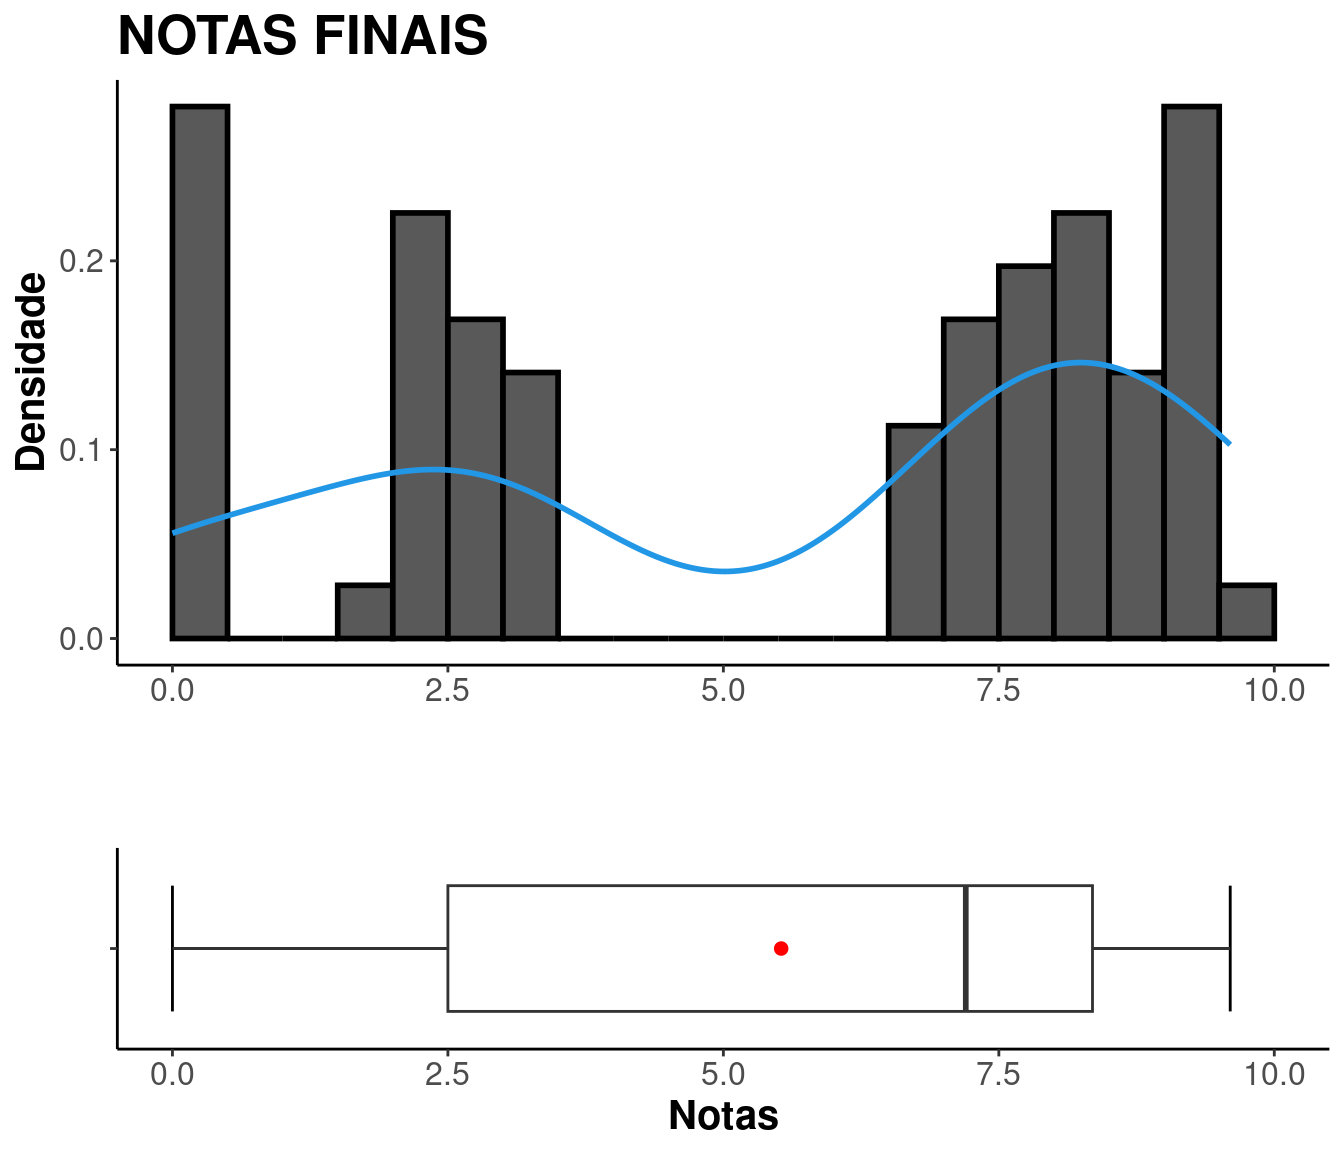
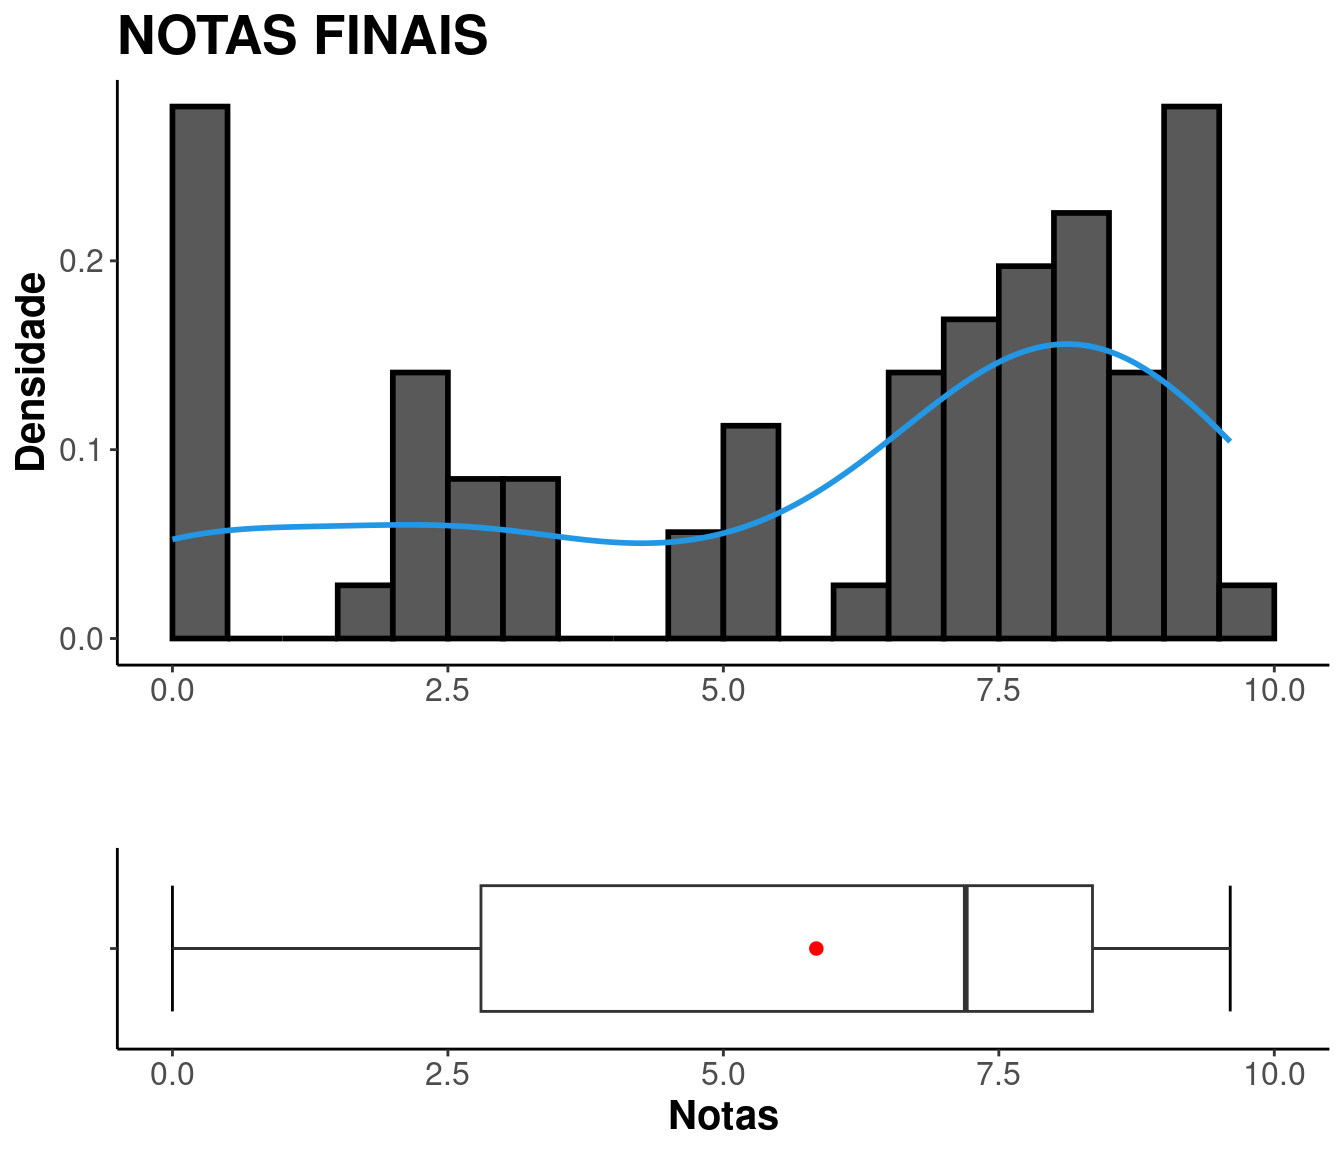
atualiza notas pos exame

diff --git a/notas.html b/notas.html
@@ -422,8 +422,8 @@ Prof. Dra. Silvia Emiko Shimakura</div></h3>
 <p>Busque sua situação digitando seu GRR na caixa “Search”.</p>
 <p><br />
 </p>
-<div class="datatables html-widget html-fill-item-overflow-hidden html-fill-item" id="htmlwidget-715f70905cf11ecd9454" style="width:100%;height:auto;"></div>
-<script type="application/json" data-for="htmlwidget-715f70905cf11ecd9454">{"x":{"filter":"none","vertical":false,"editable":{"target":"cell","disable":{"columns":null},"numeric":[1,2,3,4,5,6,7,8,9,10,11,12],"date":[]},"data":[["GRR20233873","GRR20240210","GRR20242448","GRR20241331","GRR20244190","GRR20241678","GRR20243150","GRR20240436","GRR20243413","GRR20242873","GRR20242352","GRR20244982","GRR20222245","GRR20244660","GRR20240331","GRR20243352","GRR20242856","GRR20244777","GRR20233892","GRR20233896","GRR20243557","GRR20241963","GRR20241650","GRR20242304","GRR20240528","GRR20243637","GRR20241140","GRR20243507","GRR20243418","GRR20241848","GRR20243242","GRR20244697","GRR20242858","GRR20207109","GRR20240551","GRR20242315","GRR20245109","GRR20243481","GRR20242921","GRR20233900","GRR20241882","GRR20233913","GRR20243709","GRR20241855","GRR20240644","GRR20241293","GRR20212996","GRR20244651","GRR20242530","GRR20233895","GRR20233908","GRR20244852","GRR20241403","GRR20233910","GRR20233917","GRR20233901","GRR20242112","GRR20240395","GRR20244636","GRR20222235","GRR20245017","GRR20243266","GRR20242635","GRR20240257","GRR20244892","GRR20240323","GRR20235505","GRR20233890","GRR20242758","GRR20242968","GRR20241608"],[98,56,2,10,88,38,6,16,0,2,10,98,42,10,20,66,12,90,12,12,22,34,16,12,10,4,0,2,10,6,2,12,16,24,14,56,8,70,14,12,10,42,0,90,94,28,58,2,2,16,8,46,10,18,28,66,20,10,0,94,12,8,38,34,2,16,14,14,12,6,8],[null,8,9.25,9.699999999999999,null,5.3,9,8.75,7.5,7.55,8.35,null,7.1,8.85,8.85,null,8.550000000000001,null,8.25,2.9,6.8,9.25,8.050000000000001,8.5,8.050000000000001,8.699999999999999,8.199999999999999,8.300000000000001,8,3.8,6.6,7.5,8.800000000000001,4.43,8.9,3.2,8.15,null,6.65,5.7,5.45,3.7,8.949999999999999,null,null,8.35,6.2,8.800000000000001,9.1,6.8,8.550000000000001,9.35,8.25,6.05,8.1,null,5.5,4.5,9.550000000000001,null,8.6,9.1,2.9,2.85,7.7,7.1,4.6,7.85,8.300000000000001,9.4,8.25],[null,7.8,9.6,8.5,null,5.8,7.5,7.2,7.5,4.7,9.4,null,4,8,7,null,2.8,null,7.2,2.35,5.85,6.6,9.5,8.199999999999999,4.9,8.199999999999999,9.5,8.5,3.8,3.5,5,7.45,7.4,4,7.5,null,8.1,null,7.4,4.95,6.85,6.2,5.9,null,null,8.9,5.1,9,8.5,5.1,7.25,7,7.7,5,5.9,null,4.4,4.9,9,null,9.1,7,4.45,3.5,4.7,6.3,4.8,8.9,7.5,9.199999999999999,8.199999999999999],[null,9.300000000000001,9.800000000000001,9.300000000000001,null,2.1,8.800000000000001,9.300000000000001,8.9,4,9.6,null,3,9.9,5.2,null,8.199999999999999,null,4.4,0.8,6.8,7.9,8.5,8.5,4.7,5.1,7.6,6.6,5.6,3.7,6.8,8.800000000000001,6.6,1.8,7.5,null,8.5,null,7.1,4.8,6.4,2.8,7.2,null,null,9.699999999999999,null,9.5,9.6,3.2,5.4,null,5.5,3.7,3.5,null,5.6,4.8,10,null,9.800000000000001,6,null,1.3,4,7.6,3.6,7.7,7.9,9.800000000000001,7.8],[null,6.5,8.6,7.1,null,1.2,2.6,3.7,4.1,2.3,5.2,null,2.7,8.9,5.7,null,3.8,null,3.8,0.3,3.6,7.1,7.6,5.3,8.300000000000001,5.3,9,5.3,1.1,1.2,4.5,4.3,4.9,null,6.1,null,8.800000000000001,null,7.2,1.2,7,null,8.199999999999999,null,null,9.6,null,9.1,7.5,0.7,1.8,null,4.9,1,3.2,null,0,0.5,8,null,8.6,4.8,null,null,6.7,3,1.7,8.9,5.1,8.1,null],[0,0,9.539999999999999,10,0,8.869999999999999,8.949999999999999,9.529999999999999,8.800000000000001,8.08,9.9,0,5.45,10,9.23,8.26,10,0,8.68,5.81,9.18,8.59,10,9.380000000000001,6.85,9.390000000000001,9.82,9.51,5.56,8.140000000000001,9.800000000000001,9.1,0,6.98,9.390000000000001,6.82,9.58,9.06,9.69,7.95,8.06,0,9.58,0,0,9.84,6.31,9.75,10,3.89,0,9.57,9.640000000000001,9.279999999999999,10,8.140000000000001,9.109999999999999,0,10,0,9.58,0,0,0,8,7.12,7.24,9.380000000000001,9.58,9.23,9.75],[0,0,9.789999999999999,9.75,0,5.42,9.789999999999999,9.59,8.25,5.79,9.789999999999999,0,3.81,9.789999999999999,7.42,0,8.33,0,9.539999999999999,4.34,9.44,9.539999999999999,9.48,8.630000000000001,7.52,8.65,9.75,9.130000000000001,8.289999999999999,8.08,9.6,9.44,9.17,5.94,9.75,5.75,9.75,0,8.23,9.48,9.289999999999999,9.380000000000001,9.44,0,0,9.75,7.42,9.789999999999999,9,7.9,8.23,7.71,8,6.66,9.48,0,9.06,4.36,9.44,0,9.75,9.789999999999999,0,7.56,8,6.23,8.039999999999999,9.58,9.5,8.98,9.75],[0,1.03,9.800000000000001,9.9,0,0,9.6,9.83,8.73,2.05,9.529999999999999,0,8.029999999999999,10,7.23,0,10,0,7.83,4.24,9,9.31,10,8.34,10,9.34,9.800000000000001,9.33,8.1,4.5,9.6,8.15,8.880000000000001,6.93,9.73,0,9.300000000000001,0,5.93,8.6,7.78,9.199999999999999,9.5,0,0,9.33,0,10,9.43,8.93,6.2,9.24,9.83,4.85,7.98,0,7.84,6.63,9.699999999999999,0,9.73,9.300000000000001,5.98,0,10,4.79,8.17,9.35,8.550000000000001,8.91,9.83],[0,8.91,10,9.1,0,0,9.67,9.800000000000001,7.02,1,8.869999999999999,0,0,9.800000000000001,6.32,0,9.6,0,5.73,0,8.9,6.77,9.6,9.06,9.07,7.16,9.800000000000001,8.609999999999999,7.86,3.19,9.6,7.61,6.99,0,8.73,0,8.51,0,9.01,9.52,8.859999999999999,9.4,9.300000000000001,0,0,7.01,0,10,9.470000000000001,5.42,8.81,0,7.81,8.75,9.800000000000001,0,9.17,2.15,9.859999999999999,0,9.6,9.4,0,2.05,7,6.52,8.09,9.16,8.619999999999999,9.710000000000001,8.359999999999999],[0,0,10,8,0,9.5,9.5,8.5,9,8.5,10,0,9,9.5,9,0,10,0,10,0,10,10,10,9,10,9,10,10,9,8.5,9.6,9.5,10,0,8.5,9,9.5,0,9,8,8,9,9.5,0,0,10,0,10,9.5,10,7,10,9.5,10,10,0,8,0,10,0,9.5,9.5,9,8,9.5,9,0,10,8,9,10],[0,9.5,9.5,10,0,9,9.5,9,10,0,10,0,0,10,9,0,9.5,0,10,0,9.5,10,9.5,10,10,9.5,10,10,10,10,10,10,10,0,0,0,10,0,0,9,9.5,0,9.5,0,0,9.5,0,10,10,10,10,0,9,10,0,0,9,0,9.5,0,9.5,10,10,9,9.5,10,10,9.5,9.5,10,9.5],[0,7.9,9.6,9.300000000000001,0,4.5,8.699999999999999,8.699999999999999,8.1,5,9.199999999999999,0,4.5,9.4,7.4,0.3,7.5,0,7.1,2.3,7.2,8.300000000000001,8.9,8.5,7.6,7.8,9.1,8.199999999999999,6.4,4.6,7,8.1,7.7,3.3,7.9,1.6,8.699999999999999,0.3,7.2,6,7.2,4.5,8.4,0,0,9.4,3.3,9.4,9.199999999999999,5.6,7,5.4,7.6,5.7,6.4,0.3,6.1,4.2,9.5,0,9.300000000000001,7.6,2.7,2.9,7,7,5,8.800000000000001,8.1,9.4,8.300000000000001],["REPROVADO","APROVADO","APROVADO","APROVADO","REPROVADO","EXAME","APROVADO","APROVADO","APROVADO","EXAME","APROVADO","REPROVADO","EXAME","APROVADO","APROVADO","REPROVADO","APROVADO","REPROVADO","APROVADO","REPROVADO","APROVADO","APROVADO","APROVADO","APROVADO","APROVADO","APROVADO","APROVADO","APROVADO","EXAME","EXAME","APROVADO","APROVADO","APROVADO","REPROVADO","APROVADO","REPROVADO","APROVADO","REPROVADO","APROVADO","EXAME","APROVADO","EXAME","APROVADO","REPROVADO","REPROVADO","APROVADO","REPROVADO","APROVADO","APROVADO","EXAME","APROVADO","EXAME","APROVADO","EXAME","EXAME","REPROVADO","EXAME","EXAME","APROVADO","REPROVADO","APROVADO","APROVADO","REPROVADO","REPROVADO","APROVADO","APROVADO","EXAME","APROVADO","APROVADO","APROVADO","APROVADO"]],"container":"<table class=\"cell-border stripe\">\n  <thead>\n    <tr>\n      <th>GRR<\/th>\n      <th>FALTAS<\/th>\n      <th>PROVA 1<\/th>\n      <th>PROVA 2<\/th>\n      <th>PROVA 3<\/th>\n      <th>PROVA 4<\/th>\n      <th>REMOTA 1<\/th>\n      <th>REMOTA 2<\/th>\n      <th>REMOTA 3<\/th>\n      <th>REMOTA 4<\/th>\n      <th>TRABALHO 1<\/th>\n      <th>TRABALHO 2<\/th>\n      <th>NOTAS PRÉ EXAME<\/th>\n      <th>SITUAÇÃO PRÉ EXAME<\/th>\n    <\/tr>\n  <\/thead>\n<\/table>","options":{"columnDefs":[{"className":"dt-right","targets":[1,2,3,4,5,6,7,8,9,10,11,12]}],"order":[],"autoWidth":false,"orderClasses":false}},"evals":[],"jsHooks":[]}</script>
+<div class="datatables html-widget html-fill-item-overflow-hidden html-fill-item" id="htmlwidget-e1c2370ea4bf5fe9bb0f" style="width:100%;height:auto;"></div>
+<script type="application/json" data-for="htmlwidget-e1c2370ea4bf5fe9bb0f">{"x":{"filter":"none","vertical":false,"editable":{"target":"cell","disable":{"columns":null},"numeric":[1,2,3,4,5,6,7,8,9,10,11,12,13],"date":[]},"data":[["GRR20233873","GRR20240210","GRR20242448","GRR20241331","GRR20244190","GRR20241678","GRR20243150","GRR20240436","GRR20243413","GRR20242873","GRR20242352","GRR20244982","GRR20222245","GRR20244660","GRR20240331","GRR20243352","GRR20242856","GRR20244777","GRR20233892","GRR20233896","GRR20243557","GRR20241963","GRR20241650","GRR20242304","GRR20240528","GRR20243637","GRR20241140","GRR20243507","GRR20243418","GRR20241848","GRR20243242","GRR20244697","GRR20242858","GRR20207109","GRR20240551","GRR20242315","GRR20245109","GRR20243481","GRR20242921","GRR20233900","GRR20241882","GRR20233913","GRR20243709","GRR20241855","GRR20240644","GRR20241293","GRR20212996","GRR20244651","GRR20242530","GRR20233895","GRR20233908","GRR20244852","GRR20241403","GRR20233910","GRR20233917","GRR20233901","GRR20242112","GRR20240395","GRR20244636","GRR20222235","GRR20245017","GRR20243266","GRR20242635","GRR20240257","GRR20244892","GRR20240323","GRR20235505","GRR20233890","GRR20242758","GRR20242968","GRR20241608"],[98,56,2,10,88,38,6,16,0,2,10,98,42,10,20,66,12,90,12,12,22,34,16,12,10,4,0,2,10,6,2,12,16,24,14,56,8,70,14,12,10,42,0,90,94,28,58,2,2,16,8,46,10,18,28,66,20,10,0,94,12,8,38,34,2,16,14,14,12,6,8],[null,8,9.25,9.699999999999999,null,5.3,9,8.75,7.5,7.55,8.35,null,7.1,8.85,8.85,null,8.550000000000001,null,8.25,2.9,6.8,9.25,8.050000000000001,8.5,8.050000000000001,8.699999999999999,8.199999999999999,8.300000000000001,8,3.8,6.6,7.5,8.800000000000001,4.43,8.9,3.2,8.15,null,6.65,5.7,5.45,3.7,8.949999999999999,null,null,8.35,6.2,8.800000000000001,9.1,6.8,8.550000000000001,9.35,8.25,6.05,8.1,null,5.5,4.5,9.550000000000001,null,8.6,9.1,2.9,2.85,7.7,7.1,4.6,7.85,8.300000000000001,9.4,8.25],[null,7.8,9.6,8.5,null,5.8,7.5,7.2,7.5,4.7,9.4,null,4,8,7,null,2.8,null,7.2,2.35,5.85,6.6,9.5,8.199999999999999,4.9,8.199999999999999,9.5,8.5,3.8,3.5,5,7.45,7.4,4,7.5,null,8.1,null,7.4,4.95,6.85,6.2,5.9,null,null,8.9,5.1,9,8.5,5.1,7.25,7,7.7,5,5.9,null,4.4,4.9,9,null,9.1,7,4.45,3.5,4.7,6.3,4.8,8.9,7.5,9.199999999999999,8.199999999999999],[null,9.300000000000001,9.800000000000001,9.300000000000001,null,2.1,8.800000000000001,9.300000000000001,8.9,4,9.6,null,3,9.9,5.2,null,8.199999999999999,null,4.4,0.8,6.8,7.9,8.5,8.5,4.7,5.1,7.6,6.6,5.6,3.7,6.8,8.800000000000001,6.6,1.8,7.5,null,8.5,null,7.1,4.8,6.4,2.8,7.2,null,null,9.699999999999999,null,9.5,9.6,3.2,5.4,null,5.5,3.7,3.5,null,5.6,4.8,10,null,9.800000000000001,6,null,1.3,4,7.6,3.6,7.7,7.9,9.800000000000001,7.8],[null,6.5,8.6,7.1,null,1.2,2.6,3.7,4.1,2.3,5.2,null,2.7,8.9,5.7,null,3.8,null,3.8,0.3,3.6,7.1,7.6,5.3,8.300000000000001,5.3,9,5.3,1.1,1.2,4.5,4.3,4.9,null,6.1,null,8.800000000000001,null,7.2,1.2,7,null,8.199999999999999,null,null,9.6,null,9.1,7.5,0.7,1.8,null,4.9,1,3.2,null,0,0.5,8,null,8.6,4.8,null,null,6.7,3,1.7,8.9,5.1,8.1,null],[0,0,9.539999999999999,10,0,8.869999999999999,8.949999999999999,9.529999999999999,8.800000000000001,8.08,9.9,0,5.45,10,9.23,8.26,10,0,8.68,5.81,9.18,8.59,10,9.380000000000001,6.85,9.390000000000001,9.82,9.51,5.56,8.140000000000001,9.800000000000001,9.1,0,6.98,9.390000000000001,6.82,9.58,9.06,9.69,7.95,8.06,0,9.58,0,0,9.84,6.31,9.75,10,3.89,0,9.57,9.640000000000001,9.279999999999999,10,8.140000000000001,9.109999999999999,0,10,0,9.58,0,0,0,8,7.12,7.24,9.380000000000001,9.58,9.23,9.75],[0,0,9.789999999999999,9.75,0,5.42,9.789999999999999,9.59,8.25,5.79,9.789999999999999,0,3.81,9.789999999999999,7.42,0,8.33,0,9.539999999999999,4.34,9.44,9.539999999999999,9.48,8.630000000000001,7.52,8.65,9.75,9.130000000000001,8.289999999999999,8.08,9.6,9.44,9.17,5.94,9.75,5.75,9.75,0,8.23,9.48,9.289999999999999,9.380000000000001,9.44,0,0,9.75,7.42,9.789999999999999,9,7.9,8.23,7.71,8,6.66,9.48,0,9.06,4.36,9.44,0,9.75,9.789999999999999,0,7.56,8,6.23,8.039999999999999,9.58,9.5,8.98,9.75],[0,1.03,9.800000000000001,9.9,0,0,9.6,9.83,8.73,2.05,9.529999999999999,0,8.029999999999999,10,7.23,0,10,0,7.83,4.24,9,9.31,10,8.34,10,9.34,9.800000000000001,9.33,8.1,4.5,9.6,8.15,8.880000000000001,6.93,9.73,0,9.300000000000001,0,5.93,8.6,7.78,9.199999999999999,9.5,0,0,9.33,0,10,9.43,8.93,6.2,9.24,9.83,4.85,7.98,0,7.84,6.63,9.699999999999999,0,9.73,9.300000000000001,5.98,0,10,4.79,8.17,9.35,8.550000000000001,8.91,9.83],[0,8.91,10,9.1,0,0,9.67,9.800000000000001,7.02,1,8.869999999999999,0,0,9.800000000000001,6.32,0,9.6,0,5.73,0,8.9,6.77,9.6,9.06,9.07,7.16,9.800000000000001,8.609999999999999,7.86,3.19,9.6,7.61,6.99,0,8.73,0,8.51,0,9.01,9.52,8.859999999999999,9.4,9.300000000000001,0,0,7.01,0,10,9.470000000000001,5.42,8.81,0,7.81,8.75,9.800000000000001,0,9.17,2.15,9.859999999999999,0,9.6,9.4,0,2.05,7,6.52,8.09,9.16,8.619999999999999,9.710000000000001,8.359999999999999],[0,0,10,8,0,9.5,9.5,8.5,9,8.5,10,0,9,9.5,9,0,10,0,10,0,10,10,10,9,10,9,10,10,9,8.5,9.6,9.5,10,0,8.5,9,9.5,0,9,8,8,9,9.5,0,0,10,0,10,9.5,10,7,10,9.5,10,10,0,8,0,10,0,9.5,9.5,9,8,9.5,9,0,10,8,9,10],[0,9.5,9.5,10,0,9,9.5,9,10,0,10,0,0,10,9,0,9.5,0,10,0,9.5,10,9.5,10,10,9.5,10,10,10,10,10,10,10,0,0,0,10,0,0,9,9.5,0,9.5,0,0,9.5,0,10,10,10,10,0,9,10,0,0,9,0,9.5,0,9.5,10,10,9,9.5,10,10,9.5,9.5,10,9.5],[null,null,null,null,null,null,null,null,null,null,null,null,null,null,null,null,null,null,null,null,null,null,null,null,null,null,null,null,3.6,5.4,null,null,null,null,null,null,null,null,null,6.6,null,null,null,null,null,null,null,null,null,4.6,null,null,null,5,7.5,null,4.8,2.6,null,null,null,null,null,null,null,null,5.2,null,null,null,null],[0,7.9,9.6,9.300000000000001,0,2.25,8.699999999999999,8.699999999999999,8.1,2.5,9.199999999999999,0,2.25,9.4,7.4,0.3,7.5,0,7.1,2.3,7.2,8.300000000000001,8.9,8.5,7.6,7.8,9.1,8.199999999999999,5,5,7,8.1,7.7,3.3,7.9,1.6,8.699999999999999,0.3,7.2,6.3,7.2,2.25,8.4,0,0,9.4,3.3,9.4,9.199999999999999,5.1,7,2.7,7.6,5.35,6.95,0.3,5.45,3.4,9.5,0,9.300000000000001,7.6,2.7,2.9,7,7,5.1,8.800000000000001,8.1,9.4,8.300000000000001],["REPROVADO","APROVADO","APROVADO","APROVADO","REPROVADO","REPROVADO","APROVADO","APROVADO","APROVADO","REPROVADO","APROVADO","REPROVADO","REPROVADO","APROVADO","APROVADO","REPROVADO","APROVADO","REPROVADO","APROVADO","REPROVADO","APROVADO","APROVADO","APROVADO","APROVADO","APROVADO","APROVADO","APROVADO","APROVADO","APROVADO","APROVADO","APROVADO","APROVADO","APROVADO","REPROVADO","APROVADO","REPROVADO","APROVADO","REPROVADO","APROVADO","APROVADO","APROVADO","REPROVADO","APROVADO","REPROVADO","REPROVADO","APROVADO","REPROVADO","APROVADO","APROVADO","APROVADO","APROVADO","REPROVADO","APROVADO","APROVADO","APROVADO","REPROVADO","APROVADO","REPROVADO","APROVADO","REPROVADO","APROVADO","APROVADO","REPROVADO","REPROVADO","APROVADO","APROVADO","APROVADO","APROVADO","APROVADO","APROVADO","APROVADO"]],"container":"<table class=\"cell-border stripe\">\n  <thead>\n    <tr>\n      <th>GRR<\/th>\n      <th>FALTAS<\/th>\n      <th>PROVA 1<\/th>\n      <th>PROVA 2<\/th>\n      <th>PROVA 3<\/th>\n      <th>PROVA 4<\/th>\n      <th>REMOTA 1<\/th>\n      <th>REMOTA 2<\/th>\n      <th>REMOTA 3<\/th>\n      <th>REMOTA 4<\/th>\n      <th>TRABALHO 1<\/th>\n      <th>TRABALHO 2<\/th>\n      <th>EXAME<\/th>\n      <th>NOTAS FINAIS<\/th>\n      <th>SITUAÇÃO FINAL<\/th>\n    <\/tr>\n  <\/thead>\n<\/table>","options":{"columnDefs":[{"className":"dt-right","targets":[1,2,3,4,5,6,7,8,9,10,11,12,13]}],"order":[],"autoWidth":false,"orderClasses":false}},"evals":[],"jsHooks":[]}</script>
 <center>
 <table style="width:71%;">
 <colgroup>
@@ -1125,8 +1125,8 @@ class="section level1 tabset tabset-fade tabset-pills">
 <tr class="odd">
 <td align="center">71</td>
 <td align="center">0</td>
-<td align="center">2.5</td>
-<td align="center">5.525</td>
+<td align="center">2.8</td>
+<td align="center">5.844</td>
 <td align="center">7.2</td>
 <td align="center">8.35</td>
 <td align="center">9.6</td>
@@ -1149,8 +1149,8 @@ class="section level1 tabset tabset-fade tabset-pills">
 <tbody>
 <tr class="odd">
 <td align="center">9.6</td>
-<td align="center">11.41</td>
-<td align="center">3.377</td>
+<td align="center">10.43</td>
+<td align="center">3.23</td>
 </tr>
 </tbody>
 </table>
